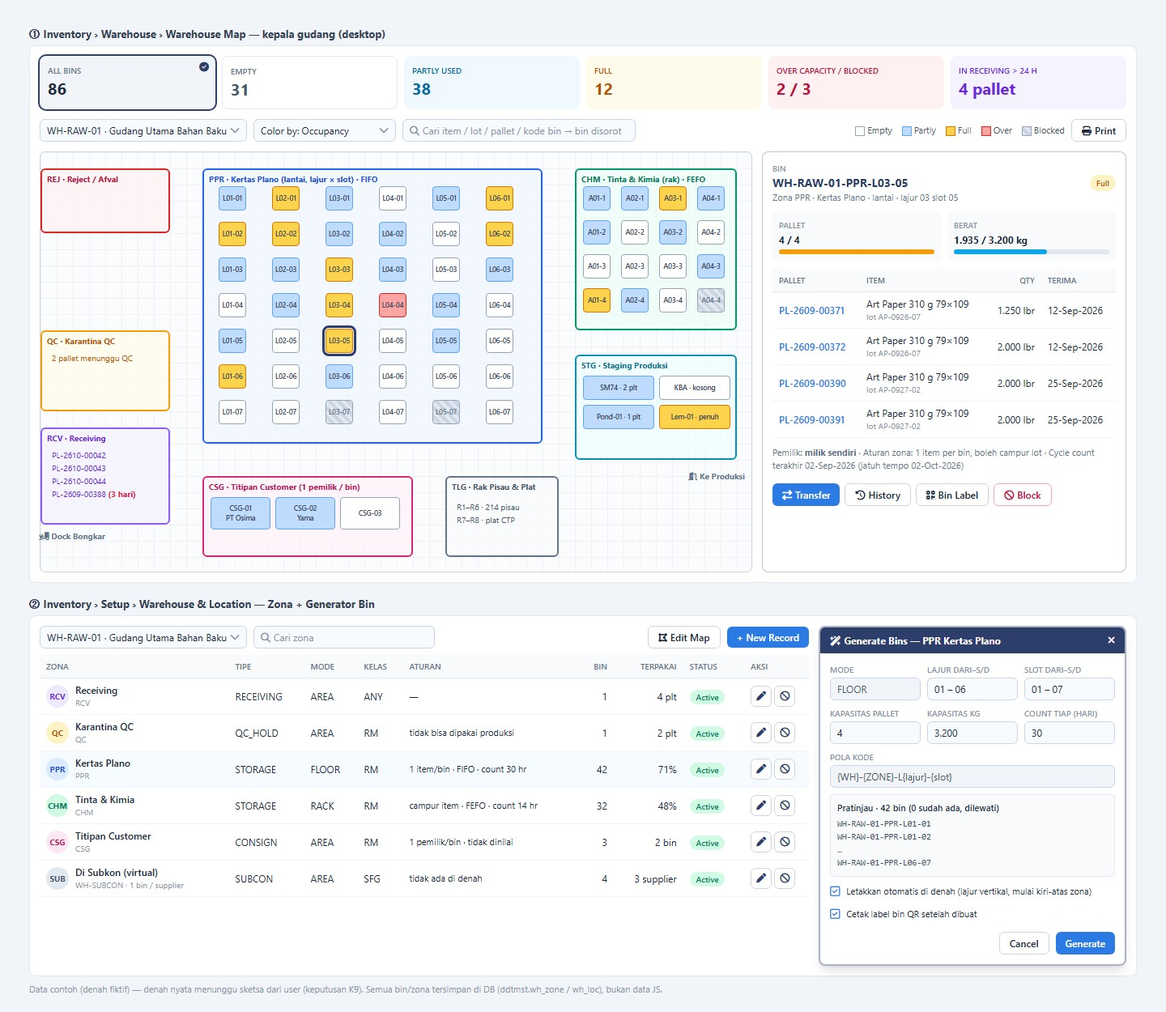
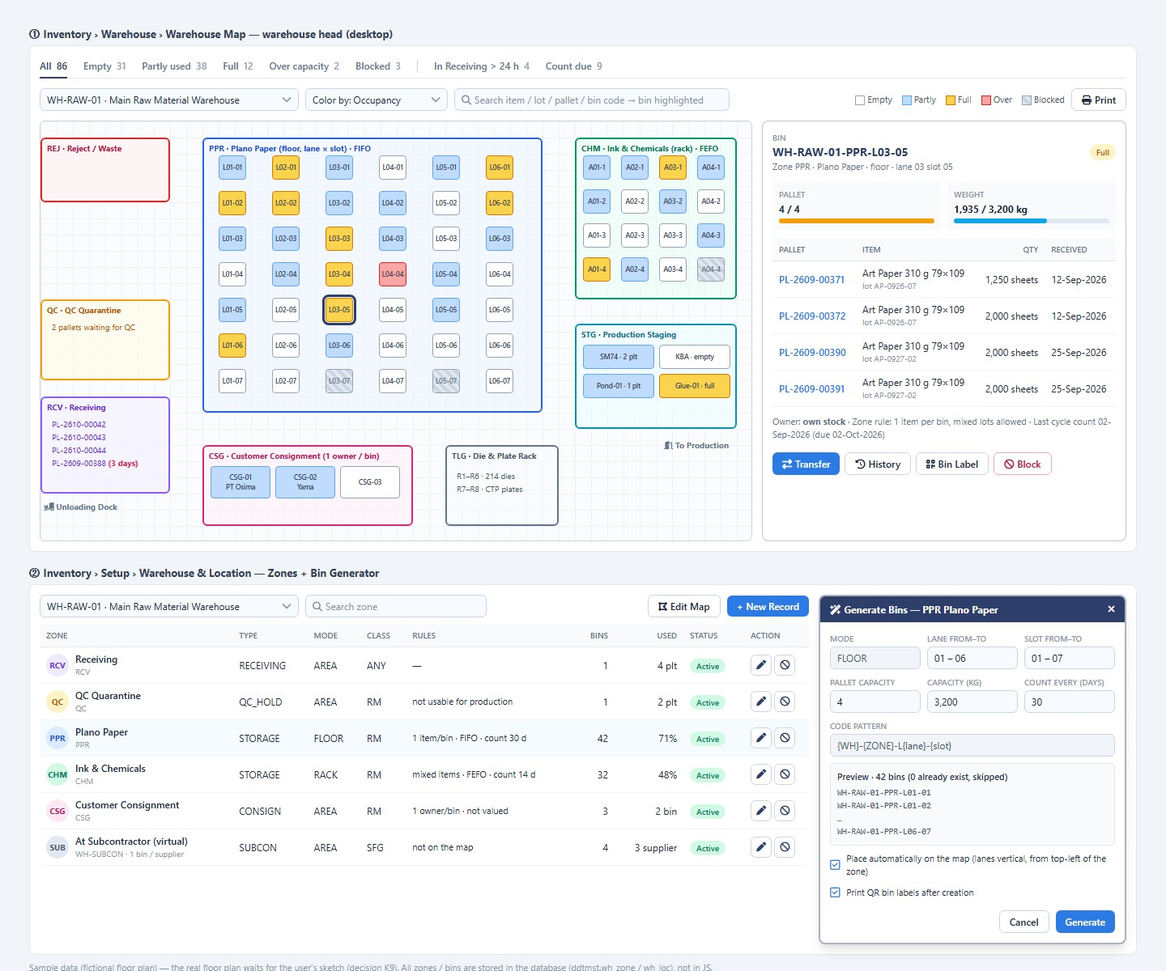
Warehouse mapping: real warehouses from the old system (A10 / A5 / A6) added to the design, map mockup in English with one filter row

diff --git a/docs/mockups/warehouse_layout_v2.html b/docs/mockups/warehouse_layout_v2.html
@@ -1,5 +1,5 @@
 <!DOCTYPE html>
-<html lang="id">
+<html lang="en">
 <head>
 <meta charset="UTF-8">
 <title>Warehouse Layout — Mockup</title>
@@ -33,6 +33,10 @@
   .o { background: #fca5a5; border-color: #dc2626; }
   .b { background: repeating-linear-gradient(45deg, #e2e8f0, #e2e8f0 4px, #cbd5e1 4px, #cbd5e1 8px); color:#64748b; }
   .sel { outline: 3px solid #2c3e69; outline-offset: 1px; z-index: 5; }
+  .fb { padding: 4px 0 6px; color: #64748b; border-bottom: 2px solid transparent; margin-bottom: -1px; }
+  .fb b { color: #94a3b8; font-weight: 600; margin-left: 3px; }
+  .fb.on { color: var(--fb); border-bottom-color: var(--fb); }
+  .fb.on b { color: var(--fb); }
   .tag { display:inline-flex; align-items:center; justify-content:center; width:18px; height:18px; border-radius:50%; background:#dc2626; color:#fff; font-size:10px; font-weight:700; }
 </style>
 </head>
@@ -40,21 +44,24 @@
 <main class="p-4 max-w-[1400px] mx-auto">
 
 <!-- ======================= 1. WAREHOUSE MAP ======================= -->
-<div class="cap">① Inventory › Warehouse › Warehouse Map — kepala gudang (desktop)</div>
+<div class="cap">① Inventory › Warehouse › Warehouse Map — warehouse head (desktop)</div>
 <section class="card p-3 space-y-3">
-  <div class="grid grid-cols-6 gap-2">
-    <div class="rounded-lg p-2.5 bg-slate-100 ring-2 ring-navy relative"><div class="text-[10px] text-slate-500 font-semibold uppercase">All Bins</div><div class="text-xl font-bold">86</div><i class="fa-solid fa-circle-check absolute top-2 right-2 text-navy"></i></div>
-    <div class="rounded-lg p-2.5 bg-white border border-slate-200"><div class="text-[10px] text-slate-500 font-semibold uppercase">Empty</div><div class="text-xl font-bold text-slate-600">31</div></div>
-    <div class="rounded-lg p-2.5 bg-sky-50"><div class="text-[10px] text-sky-700 font-semibold uppercase">Partly Used</div><div class="text-xl font-bold text-sky-700">38</div></div>
-    <div class="rounded-lg p-2.5 bg-amber-50"><div class="text-[10px] text-amber-700 font-semibold uppercase">Full</div><div class="text-xl font-bold text-amber-700">12</div></div>
-    <div class="rounded-lg p-2.5 bg-rose-50"><div class="text-[10px] text-rose-700 font-semibold uppercase">Over Capacity / Blocked</div><div class="text-xl font-bold text-rose-700">2 / 3</div></div>
-    <div class="rounded-lg p-2.5 bg-violet-50"><div class="text-[10px] text-violet-700 font-semibold uppercase">In Receiving &gt; 24 h</div><div class="text-xl font-bold text-violet-700">4 pallet</div></div>
+  <div class="flex items-end gap-5 border-b border-slate-200 text-[12px] font-semibold">
+    <span class="fb on" style="--fb:#2c3e69">All <b>86</b></span>
+    <span class="fb">Empty <b>31</b></span>
+    <span class="fb">Partly used <b>38</b></span>
+    <span class="fb">Full <b>12</b></span>
+    <span class="fb">Over capacity <b>2</b></span>
+    <span class="fb">Blocked <b>3</b></span>
+    <span class="h-4 w-px bg-slate-300 mb-1.5"></span>
+    <span class="fb">In Receiving &gt; 24 h <b>4</b></span>
+    <span class="fb">Count due <b>9</b></span>
   </div>
 
   <div class="flex items-center gap-2">
-    <div class="w-64"><div class="inp"><span>WH-RAW-01 · Gudang Utama Bahan Baku</span><i class="fa-solid fa-chevron-down text-muted"></i></div></div>
+    <div class="w-80"><div class="inp"><span>WH-RAW-01 · Main Raw Material Warehouse</span><i class="fa-solid fa-chevron-down text-muted"></i></div></div>
     <div class="w-44"><div class="inp"><span>Color by: Occupancy</span><i class="fa-solid fa-chevron-down text-muted"></i></div></div>
-    <div class="inp w-72"><span class="text-muted"><i class="fa-solid fa-magnifying-glass mr-1"></i>Cari item / lot / pallet / kode bin → bin disorot</span></div>
+    <div class="inp w-[340px]"><span class="text-muted whitespace-nowrap"><i class="fa-solid fa-magnifying-glass mr-1"></i>Search item / lot / pallet / bin code → bin highlighted</span></div>
     <span class="ml-auto flex items-center gap-3 text-[11px] text-slate-600">
       <span><span class="inline-block w-3 h-3 border border-slate-400 bg-white align-middle"></span> Empty</span>
       <span><span class="inline-block w-3 h-3 bg-blue-200 border border-blue-400 align-middle"></span> Partly</span>
@@ -70,38 +77,38 @@
     <div class="map shrink-0">
       <!-- RECEIVING -->
       <div class="zone" style="left:0;top:340px;width:160px;height:120px;border-color:#8b5cf6;background:#f5f3ffcc"><span class="zt text-violet-700">RCV · Receiving</span>
-        <div class="absolute left-3 top-6 text-[10px] text-violet-700 leading-4">PL-2610-00042<br>PL-2610-00043<br>PL-2610-00044<br>PL-2609-00388 <span class="text-rose-600 font-bold">(3 hari)</span></div></div>
+        <div class="absolute left-3 top-6 text-[10px] text-violet-700 leading-4">PL-2610-00042<br>PL-2610-00043<br>PL-2610-00044<br>PL-2609-00388 <span class="text-rose-600 font-bold">(3 days)</span></div></div>
       <!-- QC -->
-      <div class="zone" style="left:0;top:220px;width:160px;height:100px;border-color:#f59e0b;background:#fffbebcc"><span class="zt text-amber-700">QC · Karantina QC</span>
-        <div class="absolute left-3 top-6 text-[10px] text-amber-700">2 pallet menunggu QC</div></div>
+      <div class="zone" style="left:0;top:220px;width:160px;height:100px;border-color:#f59e0b;background:#fffbebcc"><span class="zt text-amber-700">QC · QC Quarantine</span>
+        <div class="absolute left-3 top-6 text-[10px] text-amber-700">2 pallets waiting for QC</div></div>
       <!-- REJECT -->
-      <div class="zone" style="left:0;top:20px;width:160px;height:80px;border-color:#dc2626;background:#fef2f2cc"><span class="zt text-rose-700">REJ · Reject / Afval</span></div>
+      <div class="zone" style="left:0;top:20px;width:160px;height:80px;border-color:#dc2626;background:#fef2f2cc"><span class="zt text-rose-700">REJ · Reject / Waste</span></div>
       <!-- PAPER FLOOR -->
-      <div class="zone" style="left:200px;top:20px;width:420px;height:340px;border-color:#2563eb;background:#eff6ffaa"><span class="zt text-blue-700">PPR · Kertas Plano (lantai, lajur × slot) · FIFO</span></div>
+      <div class="zone" style="left:200px;top:20px;width:420px;height:340px;border-color:#2563eb;background:#eff6ffaa"><span class="zt text-blue-700">PPR · Plano Paper (floor, lane × slot) · FIFO</span></div>
       <!-- lanes L01..L06, slots 01..07 -->
       <div id="lanes"></div>
       <!-- INK RACK -->
-      <div class="zone" style="left:660px;top:20px;width:200px;height:200px;border-color:#059669;background:#ecfdf5aa"><span class="zt text-emerald-700">CHM · Tinta &amp; Kimia (rak) · FEFO</span></div>
+      <div class="zone" style="left:660px;top:20px;width:200px;height:200px;border-color:#059669;background:#ecfdf5aa"><span class="zt text-emerald-700">CHM · Ink &amp; Chemicals (rack) · FEFO</span></div>
       <div id="racks"></div>
       <!-- STAGING -->
-      <div class="zone" style="left:660px;top:250px;width:200px;height:130px;border-color:#0891b2;background:#ecfeffaa"><span class="zt text-cyan-700">STG · Staging Produksi</span>
+      <div class="zone" style="left:660px;top:250px;width:200px;height:130px;border-color:#0891b2;background:#ecfeffaa"><span class="zt text-cyan-700">STG · Production Staging</span>
         <div class="absolute left-2 top-6 grid grid-cols-2 gap-1.5 text-[9.5px]">
-          <div class="bin p !static !w-[88px]">SM74 · 2 plt</div><div class="bin e !static !w-[88px]">KBA · kosong</div>
-          <div class="bin p !static !w-[88px]">Pond-01 · 1 plt</div><div class="bin f !static !w-[88px]">Lem-01 · penuh</div>
+          <div class="bin p !static !w-[88px]">SM74 · 2 plt</div><div class="bin e !static !w-[88px]">KBA · empty</div>
+          <div class="bin p !static !w-[88px]">Pond-01 · 1 plt</div><div class="bin f !static !w-[88px]">Glue-01 · full</div>
         </div></div>
       <!-- CONSIGN -->
-      <div class="zone" style="left:200px;top:400px;width:260px;height:100px;border-color:#db2777;background:#fdf2f8aa"><span class="zt text-pink-700">CSG · Titipan Customer (1 pemilik / bin)</span>
+      <div class="zone" style="left:200px;top:400px;width:260px;height:100px;border-color:#db2777;background:#fdf2f8aa"><span class="zt text-pink-700">CSG · Customer Consignment (1 owner / bin)</span>
         <div class="absolute left-2 top-6 flex gap-1.5">
           <div class="bin p !static !w-[74px] !h-[40px] text-center leading-3">CSG-01<br>PT Osima</div>
           <div class="bin p !static !w-[74px] !h-[40px] text-center leading-3">CSG-02<br>Yama</div>
           <div class="bin e !static !w-[74px] !h-[40px]">CSG-03</div>
         </div></div>
       <!-- TOOLING -->
-      <div class="zone" style="left:500px;top:400px;width:140px;height:100px;border-color:#64748b;background:#f8fafcaa"><span class="zt text-slate-600">TLG · Rak Pisau &amp; Plat</span>
-        <div class="absolute left-3 top-7 text-[10px] text-slate-600 leading-4">R1–R6 · 214 pisau<br>R7–R8 · plat CTP</div></div>
+      <div class="zone" style="left:500px;top:400px;width:140px;height:100px;border-color:#64748b;background:#f8fafcaa"><span class="zt text-slate-600">TLG · Die &amp; Plate Rack</span>
+        <div class="absolute left-3 top-7 text-[10px] text-slate-600 leading-4">R1–R6 · 214 dies<br>R7–R8 · CTP plates</div></div>
       <!-- doors -->
-      <div class="absolute text-[10px] font-bold text-slate-500" style="left:-2px;top:466px"><i class="fa-solid fa-truck-ramp-box"></i> Dock Bongkar</div>
-      <div class="absolute text-[10px] font-bold text-slate-500" style="left:800px;top:392px"><i class="fa-solid fa-door-open"></i> Ke Produksi</div>
+      <div class="absolute text-[10px] font-bold text-slate-500 whitespace-nowrap" style="left:4px;top:468px"><i class="fa-solid fa-truck-ramp-box"></i> Unloading Dock</div>
+      <div class="absolute text-[10px] font-bold text-slate-500 whitespace-nowrap" style="left:770px;top:392px"><i class="fa-solid fa-door-open"></i> To Production</div>
     </div>
 
     <!-- PANEL BIN -->
@@ -110,24 +117,24 @@
         <div>
           <div class="text-[10px] text-muted uppercase font-semibold">Bin</div>
           <div class="text-sm font-bold text-navy">WH-RAW-01-PPR-L03-05</div>
-          <div class="text-[11px] text-slate-500">Zona PPR · Kertas Plano · lantai · lajur 03 slot 05</div>
+          <div class="text-[11px] text-slate-500">Zone PPR · Plano Paper · floor · lane 03 slot 05</div>
         </div>
         <span class="px-2 py-0.5 rounded-full text-[10px] font-semibold bg-amber-100 text-amber-700">Full</span>
       </div>
       <div class="grid grid-cols-2 gap-2">
         <div class="rounded bg-slate-50 p-2"><div class="lbl">Pallet</div><div class="font-bold">4 / 4</div><div class="h-1.5 bg-slate-200 rounded mt-1"><div class="h-1.5 bg-amber-500 rounded w-full"></div></div></div>
-        <div class="rounded bg-slate-50 p-2"><div class="lbl">Berat</div><div class="font-bold">1.935 / 3.200 kg</div><div class="h-1.5 bg-slate-200 rounded mt-1"><div class="h-1.5 bg-sky-500 rounded" style="width:60%"></div></div></div>
+        <div class="rounded bg-slate-50 p-2"><div class="lbl">Weight</div><div class="font-bold">1,935 / 3,200 kg</div><div class="h-1.5 bg-slate-200 rounded mt-1"><div class="h-1.5 bg-sky-500 rounded" style="width:60%"></div></div></div>
       </div>
       <table class="w-full">
-        <thead><tr><th>Pallet</th><th>Item</th><th class="text-right">Qty</th><th>Terima</th></tr></thead>
+        <thead><tr><th>Pallet</th><th>Item</th><th class="text-right">Qty</th><th>Received</th></tr></thead>
         <tbody>
-          <tr><td class="font-semibold text-accent">PL-2609-00371</td><td>Art Paper 310 g 79×109<div class="text-[10px] text-muted">lot AP-0926-07</div></td><td class="text-right">1.250 lbr</td><td>12-Sep-2026</td></tr>
-          <tr><td class="font-semibold text-accent">PL-2609-00372</td><td>Art Paper 310 g 79×109<div class="text-[10px] text-muted">lot AP-0926-07</div></td><td class="text-right">2.000 lbr</td><td>12-Sep-2026</td></tr>
-          <tr><td class="font-semibold text-accent">PL-2609-00390</td><td>Art Paper 310 g 79×109<div class="text-[10px] text-muted">lot AP-0927-02</div></td><td class="text-right">2.000 lbr</td><td>25-Sep-2026</td></tr>
-          <tr><td class="font-semibold text-accent">PL-2609-00391</td><td>Art Paper 310 g 79×109<div class="text-[10px] text-muted">lot AP-0927-02</div></td><td class="text-right">2.000 lbr</td><td>25-Sep-2026</td></tr>
+          <tr><td class="font-semibold text-accent">PL-2609-00371</td><td>Art Paper 310 g 79×109<div class="text-[10px] text-muted">lot AP-0926-07</div></td><td class="text-right">1,250 sheets</td><td>12-Sep-2026</td></tr>
+          <tr><td class="font-semibold text-accent">PL-2609-00372</td><td>Art Paper 310 g 79×109<div class="text-[10px] text-muted">lot AP-0926-07</div></td><td class="text-right">2,000 sheets</td><td>12-Sep-2026</td></tr>
+          <tr><td class="font-semibold text-accent">PL-2609-00390</td><td>Art Paper 310 g 79×109<div class="text-[10px] text-muted">lot AP-0927-02</div></td><td class="text-right">2,000 sheets</td><td>25-Sep-2026</td></tr>
+          <tr><td class="font-semibold text-accent">PL-2609-00391</td><td>Art Paper 310 g 79×109<div class="text-[10px] text-muted">lot AP-0927-02</div></td><td class="text-right">2,000 sheets</td><td>25-Sep-2026</td></tr>
         </tbody>
       </table>
-      <div class="text-[11px] text-slate-500">Pemilik: <b>milik sendiri</b> · Aturan zona: 1 item per bin, boleh campur lot · Cycle count terakhir 02-Sep-2026 (jatuh tempo 02-Oct-2026)</div>
+      <div class="text-[11px] text-slate-500">Owner: <b>own stock</b> · Zone rule: 1 item per bin, mixed lots allowed · Last cycle count 02-Sep-2026 (due 02-Oct-2026)</div>
       <div class="flex flex-wrap gap-1.5 pt-1">
         <button class="btn bg-accent text-white"><i class="fa-solid fa-right-left mr-1"></i>Transfer</button>
         <button class="btn border border-slate-300 bg-white"><i class="fa-solid fa-clock-rotate-left mr-1"></i>History</button>
@@ -139,55 +146,55 @@
 </section>
 
 <!-- ======================= 2. SETUP ======================= -->
-<div class="cap">② Inventory › Setup › Warehouse &amp; Location — Zona + Generator Bin</div>
+<div class="cap">② Inventory › Setup › Warehouse &amp; Location — Zones + Bin Generator</div>
 <section class="card p-3 flex gap-3">
   <div class="flex-1 space-y-2">
     <div class="flex items-center gap-2">
-      <div class="w-64"><div class="inp"><span>WH-RAW-01 · Gudang Utama Bahan Baku</span><i class="fa-solid fa-chevron-down text-muted"></i></div></div>
-      <div class="inp w-56"><span class="text-muted"><i class="fa-solid fa-magnifying-glass mr-1"></i>Cari zona</span></div>
+      <div class="w-80"><div class="inp"><span>WH-RAW-01 · Main Raw Material Warehouse</span><i class="fa-solid fa-chevron-down text-muted"></i></div></div>
+      <div class="inp w-56"><span class="text-muted"><i class="fa-solid fa-magnifying-glass mr-1"></i>Search zone</span></div>
       <span class="ml-auto"></span>
       <button class="btn border border-slate-300 bg-white"><i class="fa-solid fa-draw-polygon mr-1"></i>Edit Map</button>
       <button class="btn bg-accent text-white">+ New Record</button>
     </div>
     <table class="w-full">
-      <thead><tr><th>Zona</th><th>Tipe</th><th>Mode</th><th>Kelas</th><th>Aturan</th><th class="text-right">Bin</th><th class="text-right">Terpakai</th><th>Status</th><th class="w-20">Aksi</th></tr></thead>
+      <thead><tr><th>Zone</th><th>Type</th><th>Mode</th><th>Class</th><th>Rules</th><th class="text-right">Bins</th><th class="text-right">Used</th><th>Status</th><th class="w-20">Action</th></tr></thead>
       <tbody>
         <tr><td><div class="flex items-center gap-2"><span class="w-7 h-7 rounded-full bg-violet-100 text-violet-700 font-bold flex items-center justify-center text-[10px]">RCV</span><div><div class="font-semibold">Receiving</div><div class="text-[10px] text-muted">RCV</div></div></div></td><td>RECEIVING</td><td>AREA</td><td>ANY</td><td class="text-[11px]">—</td><td class="text-right">1</td><td class="text-right">4 plt</td><td><span class="px-2 py-0.5 rounded-full text-[10px] font-semibold bg-emerald-100 text-emerald-700">Active</span></td><td><span class="ib"><i class="fa-solid fa-pen"></i></span> <span class="ib"><i class="fa-solid fa-ban"></i></span></td></tr>
-        <tr><td><div class="flex items-center gap-2"><span class="w-7 h-7 rounded-full bg-amber-100 text-amber-700 font-bold flex items-center justify-center text-[10px]">QC</span><div><div class="font-semibold">Karantina QC</div><div class="text-[10px] text-muted">QC</div></div></div></td><td>QC_HOLD</td><td>AREA</td><td>RM</td><td class="text-[11px]">tidak bisa dipakai produksi</td><td class="text-right">1</td><td class="text-right">2 plt</td><td><span class="px-2 py-0.5 rounded-full text-[10px] font-semibold bg-emerald-100 text-emerald-700">Active</span></td><td><span class="ib"><i class="fa-solid fa-pen"></i></span> <span class="ib"><i class="fa-solid fa-ban"></i></span></td></tr>
-        <tr class="bg-sky-50/60"><td><div class="flex items-center gap-2"><span class="w-7 h-7 rounded-full bg-blue-100 text-blue-700 font-bold flex items-center justify-center text-[10px]">PPR</span><div><div class="font-semibold">Kertas Plano</div><div class="text-[10px] text-muted">PPR</div></div></div></td><td>STORAGE</td><td>FLOOR</td><td>RM</td><td class="text-[11px]">1 item/bin · FIFO · count 30 hr</td><td class="text-right">42</td><td class="text-right">71%</td><td><span class="px-2 py-0.5 rounded-full text-[10px] font-semibold bg-emerald-100 text-emerald-700">Active</span></td><td><span class="ib"><i class="fa-solid fa-pen"></i></span> <span class="ib"><i class="fa-solid fa-ban"></i></span></td></tr>
-        <tr><td><div class="flex items-center gap-2"><span class="w-7 h-7 rounded-full bg-emerald-100 text-emerald-700 font-bold flex items-center justify-center text-[10px]">CHM</span><div><div class="font-semibold">Tinta &amp; Kimia</div><div class="text-[10px] text-muted">CHM</div></div></div></td><td>STORAGE</td><td>RACK</td><td>RM</td><td class="text-[11px]">campur item · FEFO · count 14 hr</td><td class="text-right">32</td><td class="text-right">48%</td><td><span class="px-2 py-0.5 rounded-full text-[10px] font-semibold bg-emerald-100 text-emerald-700">Active</span></td><td><span class="ib"><i class="fa-solid fa-pen"></i></span> <span class="ib"><i class="fa-solid fa-ban"></i></span></td></tr>
-        <tr><td><div class="flex items-center gap-2"><span class="w-7 h-7 rounded-full bg-pink-100 text-pink-700 font-bold flex items-center justify-center text-[10px]">CSG</span><div><div class="font-semibold">Titipan Customer</div><div class="text-[10px] text-muted">CSG</div></div></div></td><td>CONSIGN</td><td>AREA</td><td>RM</td><td class="text-[11px]">1 pemilik/bin · tidak dinilai</td><td class="text-right">3</td><td class="text-right">2 bin</td><td><span class="px-2 py-0.5 rounded-full text-[10px] font-semibold bg-emerald-100 text-emerald-700">Active</span></td><td><span class="ib"><i class="fa-solid fa-pen"></i></span> <span class="ib"><i class="fa-solid fa-ban"></i></span></td></tr>
-        <tr><td><div class="flex items-center gap-2"><span class="w-7 h-7 rounded-full bg-slate-200 text-slate-600 font-bold flex items-center justify-center text-[10px]">SUB</span><div><div class="font-semibold">Di Subkon (virtual)</div><div class="text-[10px] text-muted">WH-SUBCON · 1 bin / supplier</div></div></div></td><td>SUBCON</td><td>AREA</td><td>SFG</td><td class="text-[11px]">tidak ada di denah</td><td class="text-right">4</td><td class="text-right">3 supplier</td><td><span class="px-2 py-0.5 rounded-full text-[10px] font-semibold bg-emerald-100 text-emerald-700">Active</span></td><td><span class="ib"><i class="fa-solid fa-pen"></i></span> <span class="ib"><i class="fa-solid fa-ban"></i></span></td></tr>
+        <tr><td><div class="flex items-center gap-2"><span class="w-7 h-7 rounded-full bg-amber-100 text-amber-700 font-bold flex items-center justify-center text-[10px]">QC</span><div><div class="font-semibold">QC Quarantine</div><div class="text-[10px] text-muted">QC</div></div></div></td><td>QC_HOLD</td><td>AREA</td><td>RM</td><td class="text-[11px]">not usable for production</td><td class="text-right">1</td><td class="text-right">2 plt</td><td><span class="px-2 py-0.5 rounded-full text-[10px] font-semibold bg-emerald-100 text-emerald-700">Active</span></td><td><span class="ib"><i class="fa-solid fa-pen"></i></span> <span class="ib"><i class="fa-solid fa-ban"></i></span></td></tr>
+        <tr class="bg-sky-50/60"><td><div class="flex items-center gap-2"><span class="w-7 h-7 rounded-full bg-blue-100 text-blue-700 font-bold flex items-center justify-center text-[10px]">PPR</span><div><div class="font-semibold">Plano Paper</div><div class="text-[10px] text-muted">PPR</div></div></div></td><td>STORAGE</td><td>FLOOR</td><td>RM</td><td class="text-[11px]">1 item/bin · FIFO · count 30 d</td><td class="text-right">42</td><td class="text-right">71%</td><td><span class="px-2 py-0.5 rounded-full text-[10px] font-semibold bg-emerald-100 text-emerald-700">Active</span></td><td><span class="ib"><i class="fa-solid fa-pen"></i></span> <span class="ib"><i class="fa-solid fa-ban"></i></span></td></tr>
+        <tr><td><div class="flex items-center gap-2"><span class="w-7 h-7 rounded-full bg-emerald-100 text-emerald-700 font-bold flex items-center justify-center text-[10px]">CHM</span><div><div class="font-semibold">Ink &amp; Chemicals</div><div class="text-[10px] text-muted">CHM</div></div></div></td><td>STORAGE</td><td>RACK</td><td>RM</td><td class="text-[11px]">mixed items · FEFO · count 14 d</td><td class="text-right">32</td><td class="text-right">48%</td><td><span class="px-2 py-0.5 rounded-full text-[10px] font-semibold bg-emerald-100 text-emerald-700">Active</span></td><td><span class="ib"><i class="fa-solid fa-pen"></i></span> <span class="ib"><i class="fa-solid fa-ban"></i></span></td></tr>
+        <tr><td><div class="flex items-center gap-2"><span class="w-7 h-7 rounded-full bg-pink-100 text-pink-700 font-bold flex items-center justify-center text-[10px]">CSG</span><div><div class="font-semibold">Customer Consignment</div><div class="text-[10px] text-muted">CSG</div></div></div></td><td>CONSIGN</td><td>AREA</td><td>RM</td><td class="text-[11px]">1 owner/bin · not valued</td><td class="text-right">3</td><td class="text-right">2 bin</td><td><span class="px-2 py-0.5 rounded-full text-[10px] font-semibold bg-emerald-100 text-emerald-700">Active</span></td><td><span class="ib"><i class="fa-solid fa-pen"></i></span> <span class="ib"><i class="fa-solid fa-ban"></i></span></td></tr>
+        <tr><td><div class="flex items-center gap-2"><span class="w-7 h-7 rounded-full bg-slate-200 text-slate-600 font-bold flex items-center justify-center text-[10px]">SUB</span><div><div class="font-semibold">At Subcontractor (virtual)</div><div class="text-[10px] text-muted">WH-SUBCON · 1 bin / supplier</div></div></div></td><td>SUBCON</td><td>AREA</td><td>SFG</td><td class="text-[11px]">not on the map</td><td class="text-right">4</td><td class="text-right">3 supplier</td><td><span class="px-2 py-0.5 rounded-full text-[10px] font-semibold bg-emerald-100 text-emerald-700">Active</span></td><td><span class="ib"><i class="fa-solid fa-pen"></i></span> <span class="ib"><i class="fa-solid fa-ban"></i></span></td></tr>
       </tbody>
     </table>
   </div>
 
   <!-- dialog generator -->
   <div class="w-[380px] shrink-0 rounded-lg border-2 border-navy/40 shadow-lg bg-white">
-    <div class="bg-navy text-white px-3 py-2 rounded-t-md flex items-center justify-between"><span class="font-bold"><i class="fa-solid fa-wand-magic-sparkles mr-1"></i>Generate Bins — PPR Kertas Plano</span><i class="fa-solid fa-xmark"></i></div>
+    <div class="bg-navy text-white px-3 py-2 rounded-t-md flex items-center justify-between"><span class="font-bold"><i class="fa-solid fa-wand-magic-sparkles mr-1"></i>Generate Bins — PPR Plano Paper</span><i class="fa-solid fa-xmark"></i></div>
     <div class="p-3 space-y-2">
       <div class="grid grid-cols-3 gap-2">
         <div><div class="lbl">Mode</div><div class="inp ro">FLOOR</div></div>
-        <div><div class="lbl">Lajur dari–s/d</div><div class="inp"><span>01 – 06</span></div></div>
-        <div><div class="lbl">Slot dari–s/d</div><div class="inp"><span>01 – 07</span></div></div>
+        <div><div class="lbl">Lane from–to</div><div class="inp"><span>01 – 06</span></div></div>
+        <div><div class="lbl">Slot from–to</div><div class="inp"><span>01 – 07</span></div></div>
       </div>
       <div class="grid grid-cols-3 gap-2">
-        <div><div class="lbl">Kapasitas pallet</div><div class="inp"><span>4</span></div></div>
-        <div><div class="lbl">Kapasitas kg</div><div class="inp"><span>3.200</span></div></div>
-        <div><div class="lbl">Count tiap (hari)</div><div class="inp"><span>30</span></div></div>
+        <div><div class="lbl">Pallet capacity</div><div class="inp"><span>4</span></div></div>
+        <div><div class="lbl">Capacity (kg)</div><div class="inp"><span>3,200</span></div></div>
+        <div><div class="lbl">Count every (days)</div><div class="inp"><span>30</span></div></div>
       </div>
-      <div><div class="lbl">Pola kode</div><div class="inp ro">{WH}-{ZONE}-L{lajur}-{slot}</div></div>
+      <div><div class="lbl">Code pattern</div><div class="inp ro">{WH}-{ZONE}-L{lane}-{slot}</div></div>
       <div class="rounded bg-slate-50 border border-slate-200 p-2 text-[11px]">
-        <div class="font-semibold mb-1">Pratinjau · 42 bin (0 sudah ada, dilewati)</div>
+        <div class="font-semibold mb-1">Preview · 42 bins (0 already exist, skipped)</div>
         <div class="font-mono text-[10.5px] text-slate-600 leading-4">WH-RAW-01-PPR-L01-01<br>WH-RAW-01-PPR-L01-02<br>…<br>WH-RAW-01-PPR-L06-07</div>
       </div>
-      <label class="flex items-center gap-2 text-[11px]"><i class="fa-regular fa-square-check text-accent text-sm"></i> Letakkan otomatis di denah (lajur vertikal, mulai kiri-atas zona)</label>
-      <label class="flex items-center gap-2 text-[11px]"><i class="fa-regular fa-square-check text-accent text-sm"></i> Cetak label bin QR setelah dibuat</label>
+      <label class="flex items-center gap-2 text-[11px]"><i class="fa-regular fa-square-check text-accent text-sm"></i> Place automatically on the map (lanes vertical, from top-left of the zone)</label>
+      <label class="flex items-center gap-2 text-[11px]"><i class="fa-regular fa-square-check text-accent text-sm"></i> Print QR bin labels after creation</label>
       <div class="flex justify-end gap-2 pt-1"><button class="btn border border-slate-300 bg-white">Cancel</button><button class="btn bg-accent text-white">Generate</button></div>
     </div>
   </div>
 </section>
-<div class="text-[11px] text-muted mt-2">Data contoh (denah fiktif) — denah nyata menunggu sketsa dari user (keputusan K9). Semua bin/zona tersimpan di DB (ddtmst.wh_zone / wh_loc), bukan data JS.</div>
+<div class="text-[11px] text-muted mt-2">Sample data (fictional floor plan) — the real floor plan waits for the user's sketch (decision K9). All zones / bins are stored in the database (ddtmst.wh_zone / wh_loc), not in JS.</div>
 </main>
 <script>
   // lajur kertas: 6 lajur x 7 slot

diff --git a/docs/warehouselayout_tier1.md b/docs/warehouselayout_tier1.md
@@ -398,3 +398,47 @@ berubah setelah approval terakhir; sebelumnya tampil "Pending adj" di On Hand.
 **Temuan data**: saldo berjalan `ddtinv.rm_stockcard.qty_eb` ANIMAL GLUE tidak konsisten
 (IN 1.000 → ADJ +100 tercatat saldo 100) dan ada saldo negatif di UNKNOWN-LEGACY — perlu
 diperiksa sebelum laporan Stock Card/Master Stock dibangun di atas tabel ini.
+
+---
+
+## 12. Tambahan 2026-10-02: pemetaan gudang nyata (dari data sistem lama)
+
+Dicek ke `tm2old` (baca saja). Sistem lama punya **3 gudang nyata** di `mst_warehouse`,
+tanpa lapis rak / bin (hanya nama gudang di tiap dokumen):
+
+| Gudang lama | Item terdaftar | Isi utama (kategori bahan) | Penerimaan PO | Pengeluaran | Surat Jalan |
+|---|---|---|---|---|---|
+| GUDANG A10 | 3.554 | campuran: Others 1.259, Ink 717, Sheet 609, Single Face 477, Paper 417, Glue 10, Plate 7 | 7.166 | 2.726 | 15.937 |
+| GUDANG A5 | 889 | **kertas** (Paper 752) | 6.261 | 1.485 | 505 |
+| GUDANG A6 | 7 | hampir tidak dipakai | 38 | 0 | 17 |
+| (kosong) | 16.345 item tanpa gudang | — | 6.410 | 632 | 19.437 |
+
+Gudang v2 yang ada sekarang (`WH-RAW-01`, `WH-FG-01`, `WH-MIX-01`, `WH-SCP-01`) adalah
+**buatan sistem menurut kelas stok**, tidak sama dengan gedung nyata: A10 menyimpan bahan
+sekaligus mengirim barang jadi. Di ERP besar (§2) gudang = gedung fisik, fungsi = zona.
+Peta gudang hanya masuk akal bila digambar per gedung.
+
+**Usul pemetaan** (menunggu jawaban user, tidak ada yang diubah):
+
+| Lapis | Isi |
+|---|---|
+| `wh_warehouse` = gedung | A10, A5, A6 (+ virtual SUBCON, IN-TRANSIT) |
+| `wh_zone` = fungsi di dalam gedung | Receiving, QC, Paper, Ink & Chemicals, Sheet / Single Face, Finished Goods, Shipping, Staging, Reject, Tooling — `stock_class` ada di zona |
+| `wh_loc` = bin | lajur × slot / lorong-rak-tingkat |
+
+`warehouse_type` hanya dipakai label di layar master (tidak dipakai logika posting), jadi
+gudang per gedung aman. 7 lokasi lama + stok dummy yang menempel padanya tidak dihapus
+(dummy tm2 = fixture test); `WH-RAW-01` dst dinonaktifkan / dipetakan ke gedung setelah
+user memutuskan.
+
+| # | Pertanyaan | Rekomendasi |
+|---|---|---|
+| G1 | A5, A6, A10 = gedung terpisah (beda alamat / kavling) atau ruangan dalam satu gedung? Masih dipakai semua? | Beda kavling → cukup sebagai 3 gudang dalam 1 site (lapis `wh_site` baru perlu bila beda kota / perlu surat jalan internal) |
+| G2 | Gudang v2 mengikuti gedung nyata (A10 / A5 / A6), kelas stok pindah ke zona? | **Ya** |
+| G3 | Peta pertama digambar untuk gedung mana? | **A10** (paling ramai, bahan + pengiriman), lalu A5 (kertas) |
+
+Kebutuhan K9 jadi lebih kecil: cukup sketsa tangan / foto per gedung (pintu, area kertas,
+rak, area kirim) + perkiraan ukuran; rak dan lajur dibuat lewat generator bin.
+
+Mockup `mockups/warehouse_layout_v2.jpg` diperbarui 2026-10-02: label English, satu baris
+filter teks (tanpa kotak statistik) sesuai aturan C.21.

diff --git a/docs/backlog05_inventory_warehouse.md b/docs/backlog05_inventory_warehouse.md
@@ -43,6 +43,7 @@ jadi bin; yang ditambah = lapis **`wh_zone`** di atasnya (bukan `wh_bin`).
 | 05.10 | Cycle count per zona/bin (reuse doc OP + scope) | 2 | menunggu OK desain |
 | 05.11 | Bin Utilization + peringatan kapasitas | 3 | — |
 | 05.12 | Denah nyata gudang dari user (sketsa/foto + daftar rak) sebelum dijalankan ke tm2 | — | **menunggu user (K9)** |
+| 05.18 | Pemetaan gudang nyata: sistem lama punya GUDANG A10 / A5 / A6, gudang v2 sekarang buatan sistem per kelas stok (`warehouselayout_tier1.md` §12, G1-G3) | 1 | **menunggu user** (2026-10-02) |
 | 05.13 | Multi lokasi: `wh_site` + gudang virtual IN-TRANSIT, transfer antar site 2 langkah (M1–M3) | 1 | menunggu user |
 | 05.14 | Cari Barang multi lokasi, Stock Card simple + extended, Item per Lokasi + riwayat, Master Stock, Stock On Hand | 1 | preview dibuat 2026-10-01, menunggu OK |
 | 05.15 | Adjustment dengan approval v2 (A1–A2) | 1 | menunggu user |
